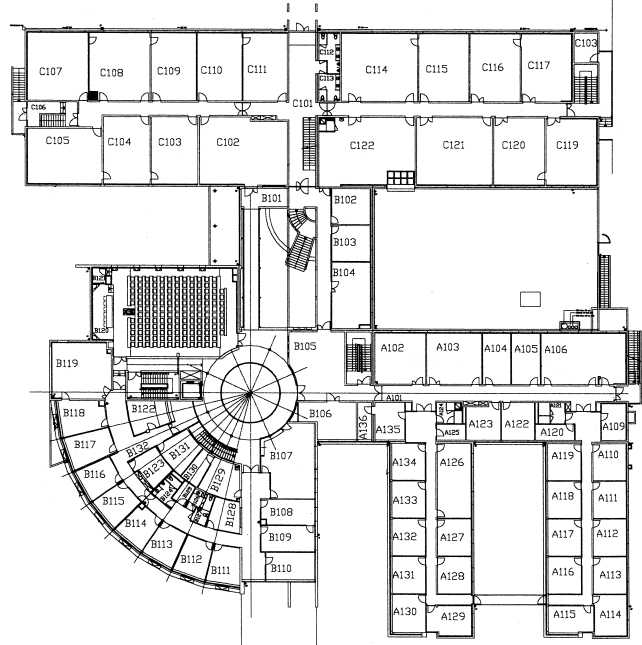
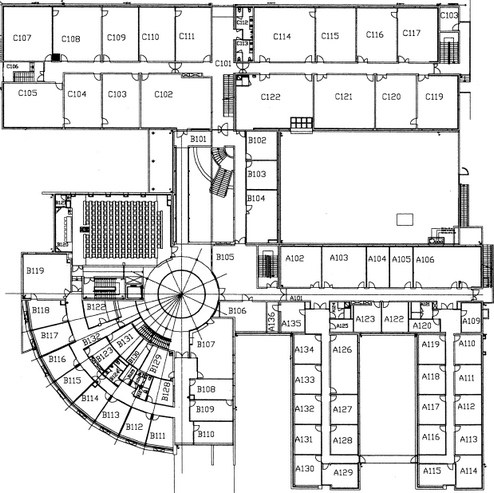
redimensionnement plan etage 2

diff --git a/Tablette/html/pages/etage_1/etage_1.css b/Tablette/html/pages/etage_1/etage_1.css
@@ -5,6 +5,7 @@
 /* -- Style du contenu de manière générale -- */
 .contenu{
     display : flex;
+    flex-wrap: wrap;
     flex-direction : row;
     justify-content: space-around;
 }
@@ -12,8 +13,8 @@
 /* -- Définition du plan comme fond de la division plan -- */
 .plan{
     background-image: url("../images/plan_etage_1.png");
-    width : 600px;
-    height : 600px;
+    width : 493px;
+    height : 490px;
 }
 
 /** --------------------------------------------------------------------------- **/
@@ -228,7 +229,7 @@
 .details{
     display : flex; 
     flex-direction : column;
-    width : 600px;
+    width : 400px;
 }
 
 

diff --git a/Tablette/html/pages/etage_2/etage_2.css b/Tablette/html/pages/etage_2/etage_2.css
@@ -5,6 +5,7 @@
 /* -- Style du contenu de manière générale -- */
 .contenu{
     display : flex;
+    flex-wrap: wrap;
     flex-direction : row;
     justify-content: space-around;
 }
@@ -12,8 +13,8 @@
 /* -- Définition du plan comme fond de la division plan -- */
 .plan{
     background-image: url("../images/plan_etage_2.png");
-    width : 590px;
-    height : 627px;
+    width : 493px;
+    height : 490px;
 }
 
 /** --------------------------------------------------------------------------- **/
@@ -228,7 +229,7 @@
 .details{
     display : flex; 
     flex-direction : column;
-    width : 600px;
+    width : 400px;
 }
 
 
